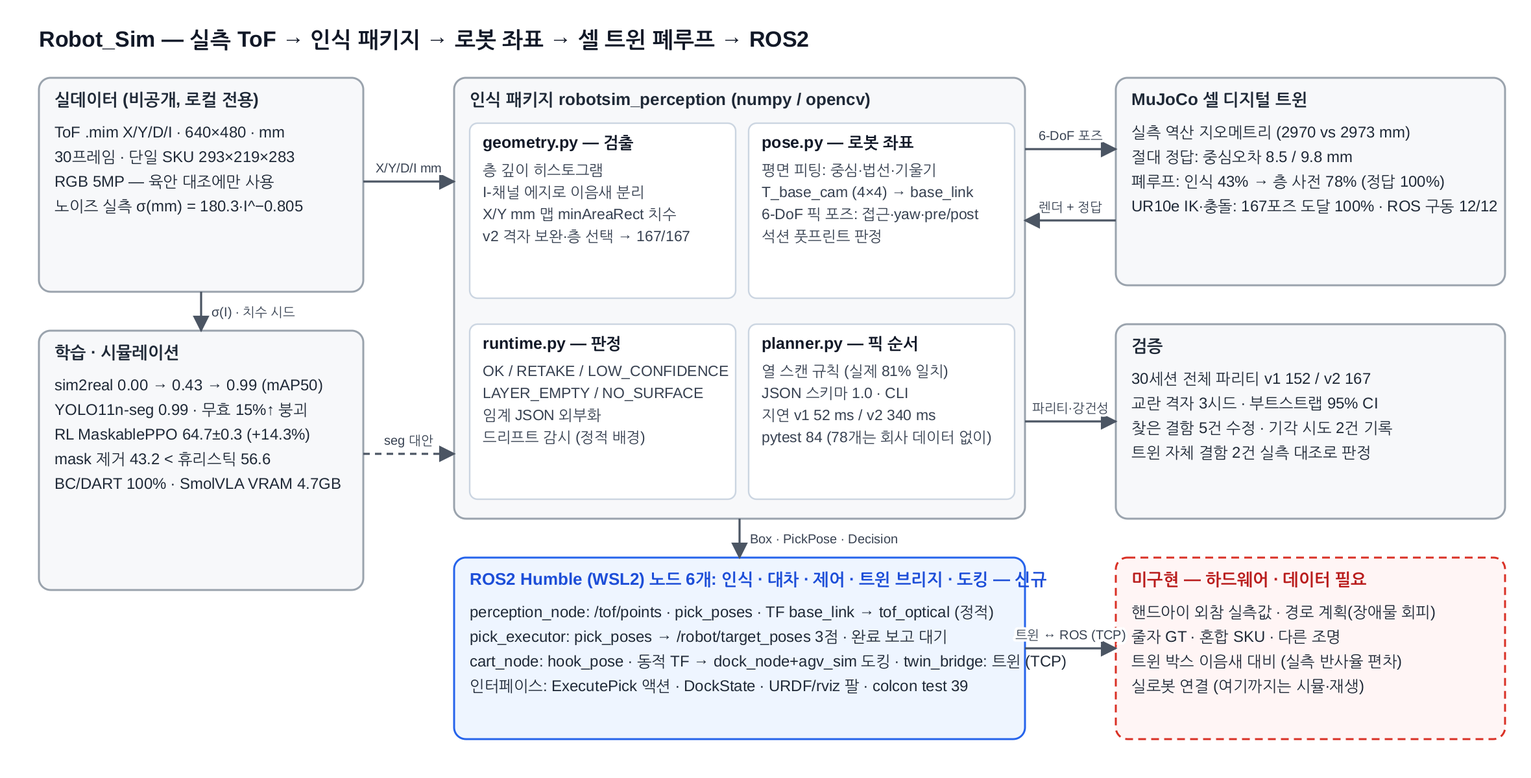
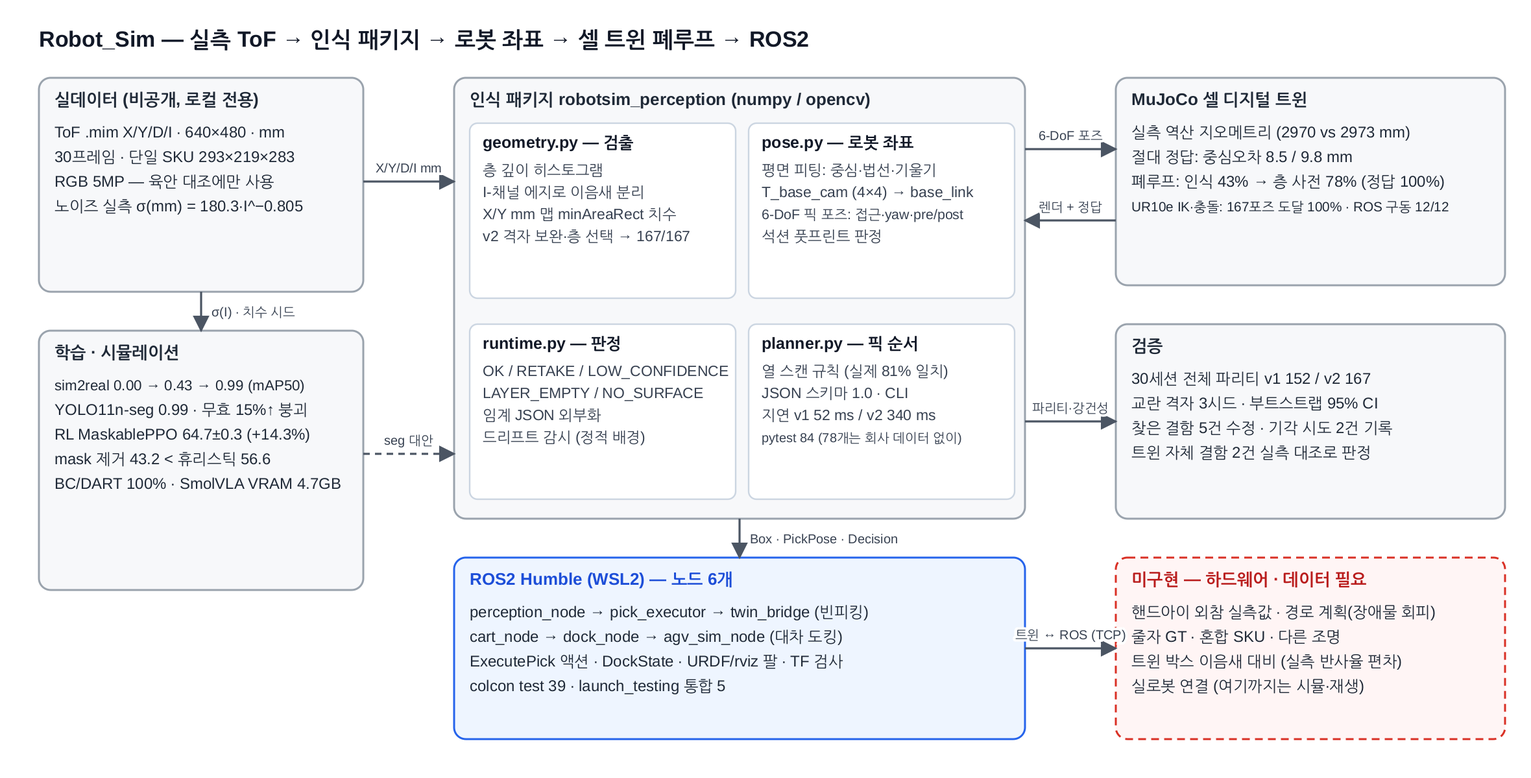
구조도 글자 넘침 수정 + 요약 PDF 를 워크플로 중심으로 다시 짬
- 구조도: 카드 폭을 넘는 줄이 박스 밖으로 새어 나왔다. 글자 폭을 추정해 자동으로 줄이는 _fit() 을 넣고(하한 8.5),
  ROS 카드 문구도 짧게 정리했다. 앞으로 문구를 늘려도 박스를 넘지 않는다
- 요약 PDF 1장: 다이어그램을 그대로 붙이던 것을 그만두고 워크플로 그림(데이터 → 인식 → 로봇 좌표 → 트윈 폐루프 → ROS2,
  아래에 대차 → 고리 → 도킹 갈래)을 직접 그린다. 핵심 수치는 타일 6개로, 설명 문장은 대폭 줄였다
- 요약 PDF 2장: 3열 → 2열 3행. 가로로 긴 차트가 폭에 눌려 축 글씨가 안 보이던 것을 고쳤고 캡션은 두 줄로 줄였다

diff --git a/tools/make_summary_pdf.py b/tools/make_summary_pdf.py
@@ -3,9 +3,9 @@
 
     python tools/make_summary_pdf.py  ->  docs/research/Robot_Sim_요약_2p.pdf (+ 페이지 PNG 미리보기)
 
-1장: 무엇을 만들었나(세 문장) + 다이어그램 + 검증 방법·한계 + 핵심 수치(숫자와 그 뜻)
-2장: 결과 그림 6장. 그림마다 "화면에 뭐가 보이는지"와 "숫자가 뜻하는 것"을 풀어 쓴다.
-글은 기호를 이어 붙이지 말고 문장으로 쓴다 (읽는 사람이 이 프로젝트를 모른다고 가정).
+1장: 한 줄 소개 + 워크플로 그림(데이터 → 인식 → 로봇 좌표 → 트윈 폐루프 → ROS2, 대차 갈래) + 핵심 수치 타일 6개 + 한계 4줄.
+2장: 결과 그림 6장. 캡션은 화면에 보이는 것부터 두 줄 안에.
+글은 되도록 줄이고 그림과 수치로 보여 준다. 남기는 문장은 기호 나열 대신 문장으로 쓴다.
 """
 from __future__ import annotations
 
@@ -18,6 +18,7 @@ import matplotlib.font_manager as fm
 import matplotlib.pyplot as plt
 from matplotlib.backends.backend_pdf import PdfPages
 from matplotlib.image import imread
+from matplotlib.patches import FancyArrowPatch, FancyBboxPatch
 
 ROOT = Path(__file__).resolve().parent.parent
 A = ROOT / "assets"
@@ -78,77 +79,127 @@ def image(fig, path, box, title=None, caption=None, caption_size=8.0):
         text(fig, x0, y_top - h_fit - 0.008, caption, caption_size, MUTED, wrap=w)
 
 
+# ----------------------------------------------------------------------------- 도형 (워크플로용)
+def box(fig, x, y, w, h, fill="#f7f8fa", edge="#9aa3ad", lw=1.0, dash=None):
+    """페이지 비율 좌표의 둥근 상자."""
+    p = FancyBboxPatch((x, y), w, h, boxstyle="round,pad=0,rounding_size=0.008",
+                       transform=fig.transFigure, facecolor=fill, edgecolor=edge, linewidth=lw,
+                       linestyle=(0, (4, 3)) if dash else "solid", zorder=1)
+    fig.add_artist(p)
+    return p
+
+
+def arrow(fig, x1, y1, x2, y2, color="#4b5563", label=None, lw=1.2):
+    a = FancyArrowPatch((x1, y1), (x2, y2), transform=fig.transFigure, arrowstyle="-|>",
+                        mutation_scale=11, color=color, linewidth=lw, zorder=2)
+    fig.add_artist(a)
+    if label:
+        fig.text((x1 + x2) / 2, max(y1, y2) + 0.012, _clean(label), fontsize=7.0, color=MUTED, ha="center")
+
+
+def stage(fig, x, y, w, h, title, lines, kpi=None, fill="#f7f8fa", edge="#9aa3ad", tcol=INK):
+    """워크플로 한 칸: 제목 + 짧은 줄 + 강조 수치."""
+    box(fig, x, y, w, h, fill, edge)
+    text(fig, x + 0.010, y + h - 0.016, title, 9.6, tcol, weight="bold")
+    for i, ln in enumerate(lines):
+        text(fig, x + 0.010, y + h - 0.045 - 0.026 * i, ln, 8.0, MUTED)
+    if kpi:
+        text(fig, x + 0.010, y + 0.012, kpi, 9.0, ACC, weight="bold", va="bottom")
+
+
+def tile(fig, x, y, w, h, value, label, note):
+    """핵심 수치 타일: 큰 숫자 + 무엇인지 + 뜻 한 줄."""
+    box(fig, x, y, w, h, "#ffffff", "#cbd5e1")
+    fig.text(x + w / 2, y + h - 0.030, _clean(value), fontsize=17, color=ACC, fontweight="bold",
+             ha="center", va="center")
+    fig.text(x + w / 2, y + h - 0.062, _clean(label), fontsize=8.4, color=INK, ha="center", va="center",
+             fontweight="bold")
+    fig.text(x + w / 2, y + 0.012, _clean(note), fontsize=7.4, color=MUTED, ha="center", va="bottom")
+
+
 def page1(pdf):
     fig = plt.figure(figsize=(PAGE_W, PAGE_H))
     text(fig, 0.04, 0.965, "Robot_Sim — 공장 ToF 데이터로 만든 로봇 인식 소프트웨어", 15, weight="bold")
-    text(fig, 0.04, 0.93,
-         "공장에서 찍은 ToF(거리) 카메라 데이터 두 종류로 인식 소프트웨어를 만들었다. 하나는 팔레트 위 박스를 찾아 로봇이 집을 위치와 자세를 "
-         "계산하는 것, 다른 하나는 대차의 견인 고리 위치를 대차 기준 좌표로 계산하는 것이다. 같은 셀을 시뮬레이터(MuJoCo)에 재현해 인식 결과만으로 "
-         "박스를 집어 옮기는 것까지 확인했고, ROS2 노드로 감싸 rviz에서 볼 수 있게 했다. 실제 로봇은 없고, 원본 데이터는 공개하지 않는다.",
-         9.0, MUTED, wrap=0.92)
+    text(fig, 0.04, 0.932,
+         "공장에서 찍은 거리(ToF) 카메라 데이터로 두 가지를 만들었다. 팔레트 위 박스를 찾아 로봇이 집을 위치·자세를 내는 것, "
+         "대차의 견인 고리 위치를 대차 기준 좌표로 내는 것. 같은 셀을 MuJoCo 로 재현해 인식 결과만으로 집어 옮기는 것까지 닫았고 "
+         "ROS2 노드로 감쌌다. 실제 로봇은 없고 원본 데이터는 비공개다.", 9.0, MUTED, wrap=0.92)
 
-    # ---- 다이어그램 (왼쪽) + 검증 방법 / 한계 (오른쪽)
-    image(fig, A / "architecture.png", (0.04, 0.845, 0.92, 0.385))
-    rx = 0.625
-    text(fig, rx, 0.845, "어떻게 검증했나", 11, weight="bold")
-    text(fig, rx, 0.815,
-         "1. 실측 30장면의 검출 결과를 RGB 사진과 사람이 대조해 박스 수를 확인했다.\n"
-         "2. 시뮬레이터에서는 박스의 진짜 위치를 알 수 있어, 검출 위치 오차를 mm 단위로 직접 쟀다.\n"
-         "3. 무효 픽셀, 깊이 노이즈, 큰 결손을 일부러 넣어 검출이 얼마나 버티는지 봤다.\n"
-         "4. 자동 테스트 84건(회사 데이터 없이 도는 것 78건)과 ROS2 테스트 39건(노드를 실제로 띄우는 통합 테스트 5건 포함)이 돈다.",
-         8.2, wrap=0.34)
-    text(fig, rx, 0.64, "한계", 11, weight="bold", color=RED)
-    text(fig, rx, 0.61,
-         "1. 박스 종류 하나, 카메라 한 대, 연속 30장면에서만 확인했다.\n"
-         "2. 실측 데이터의 정답은 검출기 출력을 사람이 눈으로 확인한 것이다. 줄자로 잰 정답은 없다.\n"
-         "3. 시뮬레이터의 팔은 역기구학·충돌 검사·관절 속도까지만 본다. 장애물을 돌아가는 경로 계획과 흡착 물리는 없다.\n"
-         "4. 박스가 1~3개만 남으면 층을 잘못 고르던 문제는 직전 프레임의 층을 사전으로 써서 대부분 해결했다. 남은 손실은 시뮬레이터 박스의 이음새 대비 부족.",
-         8.2, wrap=0.34)
-
-    # ---- 핵심 수치: 숫자와 그 뜻 (전체 폭)
-    rule(fig, 0.455)
-    text(fig, 0.04, 0.44, "핵심 수치와 그 뜻", 11, weight="bold")
-    cols = (0.04, 0.215, 0.43)
-    text(fig, cols[0], 0.41, "항목", 8.2, MUTED, weight="bold")
-    text(fig, cols[1], 0.41, "결과", 8.2, MUTED, weight="bold")
-    text(fig, cols[2], 0.41, "이 숫자가 뜻하는 것", 8.2, MUTED, weight="bold")
-    rows = [
-        ("박스 검출 (실측 30장면)",
-         "실제 박스 167개 중 167개 검출, 빈 장면 오검출 0",
-         "RGB 사진으로 사람이 센 박스 수와 같다. 첫 버전은 152개였는데, 붙어 있는 박스 둘이 하나로 합쳐지는 문제를 "
-         "격자 규칙으로 빈 칸을 채워서 고쳤다. 한 장면 처리에 0.34초."),
-        ("위치 정확도 (시뮬레이터 48장면)",
-         "박스 중심 오차 평균 8.5 mm, 노이즈 포함 9.8 mm",
-         "시뮬레이터 안에서는 박스의 진짜 위치를 아니까 직접 비교한 값이다. 실측 데이터에는 이런 정답이 없다. "
-         "박스 크기는 실제보다 8~15 mm 작게 잰다."),
-        ("인식 결과로 집어 옮기기 (시뮬레이터 60회)",
-         "정답 100% vs 인식 43% → 층 사전 78% (mocap), 트랙 팔 65 → 75%",
-         "손실 대부분은 박스가 1~3개 남았을 때 층을 잘못 골라 포기한 것. 직전 프레임의 층 깊이를 다음 후보로 쓰면 그 손실이 "
-         "거의 사라진다(인식 비용 57 → 22 %p). 팔에 정답을 주면 60개 전부, ROS2 구동은 12개 전부 놓았다."),
-        ("팔 도달 범위 (UR10e, 실측 픽 포즈 167개)",
-         "고정 받침대 87%, 리니어 트랙을 달면 100%, 무충돌 99~100%",
-         "1.3 m 팔 하나로는 두 팔레트(중심 거리 1.19 m)의 반대편 모서리에 못 닿는다. 트랙 0.6 m 를 더하면 전부 닿는다. "
-         "관절 속도 한계로 계산한 픽 1회 순수 이동은 3.1초(흡착·해제 대기 0.6초 별도)."),
-        ("대차 고리 위치 (실측 4회 촬영)",
-         "고리 반복 3.85 mm (면내 3.1 mm) · 도킹(합성 대차) 30회 중 27회 결합",
-         "촬영마다 카메라 높이가 6 cm, 대차 위치가 5 cm까지 달라도 데크 평면·테두리·레일로 좌표를 잡으면 고리는 같은 자리다. "
-         "이 좌표로 합성 대차에서 AGV(시뮬)를 결합 위치까지 몰았다: 평균 9.1초, 측방 3.0 mm(정답 기준 26회)."),
-        ("팔레타이징 강화학습 (3시드)",
-         "학습 정책 64.7개 vs 규칙 56.6개 (14% 더 쌓음)",
-         "같은 팔레트에 박스를 몇 개 쌓느냐. 놓을 수 없는 자리를 미리 막는 마스크를 빼면 43.2개로 규칙보다 못하다. "
-         "즉 성능의 핵심은 마스크다."),
-        ("ROS2 노드 6개 (Humble, WSL2)",
-         "빈피킹·대차·제어·트윈 브리지·도킹·AGV 시뮬 노드. 액션·커스텀 메시지. 테스트 39건",
-         "인식 결과를 로봇 제어기가 받는 표준 형식(포즈, 좌표 변환 TF, 마커)으로 내보낸다. 제어 노드는 픽 포즈를 세 점 궤적으로 "
-         "바꿔 보내고 완료 보고를 기다린 뒤 재촬영을 요청한다. 브리지 노드가 그 명령을 시뮬레이터의 팔에 실행시켜 12박스를 전부 놓았다(실패 0)."),
+    # ---------------------------------------------------------------- 워크플로
+    text(fig, 0.04, 0.868, "워크플로 — 데이터에서 로봇 명령까지", 11.5, weight="bold")
+    y, h = 0.66, 0.185
+    xs = [0.040, 0.234, 0.428, 0.622, 0.816]
+    w = 0.164
+    stages = [
+        ("① 실측 ToF", ["30장면 · 단일 SKU", "X/Y/거리/강도 640×480", "노이즈 실측으로 모델링"], "비공개 · 로컬 전용"),
+        ("② 인식 (numpy/opencv)", ["층 깊이 + 강도 에지", "격자 보완으로 빈 칸 채움", "판정: OK/재촬영/저신뢰"], "167 / 167 박스"),
+        ("③ 로봇 좌표", ["평면 피팅 → 중심·법선", "카메라→로봇 4×4 변환", "6-DoF 픽 포즈(요 포함)"], "중심 오차 8.5 mm"),
+        ("④ 셀 트윈 폐루프", ["MuJoCo 로 셀 재현", "인식 결과만으로 집기", "UR10e IK·충돌·속도"], "인식 구동 78%"),
+        ("⑤ ROS2 (Humble)", ["노드 6개 · rviz2", "픽 실행 액션 · TF", "launch_testing 통합 5"], "12박스 12/12"),
     ]
-    y = 0.385
-    for k, v, why in rows:                    # 7행: 행 간격 0.05 로 바닥글 위에서 끝나게 (넘치면 여기부터 줄인다)
-        text(fig, cols[0], y, k, 8.0, INK, weight="bold", wrap=0.165)
-        text(fig, cols[1], y, v, 8.0, INK, wrap=0.205)
-        text(fig, cols[2], y, why, 8.0, MUTED, wrap=0.53)
-        y -= 0.05
-    text(fig, 0.04, 0.018, "github.com/CVKim/RobotSim  ·  수치 원본은 results/*.json  ·  원본 데이터는 비공개(집계 수치와 depth 시각화만 공개)",
+    for i, (x, (t, lines, kpi)) in enumerate(zip(xs, stages)):
+        last = i == len(stages) - 1
+        stage(fig, x, y, w, h, t, lines, kpi,
+              fill="#eef5ff" if last else "#f7f8fa", edge="#2563eb" if last else "#9aa3ad",
+              tcol=ACC if last else INK)
+        if i:
+            arrow(fig, xs[i - 1] + w, y + h / 2, x, y + h / 2)
+
+    # 대차 갈래 (아래 줄)
+    y2, h2 = 0.505, 0.115
+    stages2 = [
+        ("대차 장면 (실측 4회 · 합성)", ["카메라가 데크를 40° 비스듬히 봄"], None),
+        ("고리 좌표", ["데크 평면·림·레일에서 대차 좌표계 추정"], "반복 RMS 3.85 mm"),
+        ("AGV 도킹 (시뮬)", ["고리 포즈로 결합 위치까지 주행 · stop-and-go"], "30회 중 27회 결합"),
+    ]
+    xs2 = [0.040, 0.330, 0.620]
+    w2 = 0.258
+    for i, (x, (t, lines, kpi)) in enumerate(zip(xs2, stages2)):
+        stage(fig, x, y2, w2, h2, t, lines, kpi)
+        if i:
+            arrow(fig, xs2[i - 1] + w2, y2 + h2 / 2, x, y2 + h2 / 2)
+    # 좌표 변환이 맞는지 스스로 검사한 값 (같은 고리를 두 경로로 구해 비교)
+    box(fig, 0.878, y2, 0.082, h2, "#ffffff", "#cbd5e1")
+    fig.text(0.919, y2 + h2 - 0.032, "0.003 mm", fontsize=11.5, color=ACC, fontweight="bold", ha="center", va="center")
+    fig.text(0.919, y2 + h2 - 0.062, _clean("좌표 변환 검사"), fontsize=7.8, color=INK, ha="center", va="center", fontweight="bold")
+    fig.text(0.919, y2 + 0.014, _clean("TF 값 vs 인식 값"), fontsize=7.0, color=MUTED, ha="center", va="bottom")
+
+    # ---------------------------------------------------------------- 핵심 수치 타일
+    text(fig, 0.04, 0.455, "핵심 수치", 11.5, weight="bold")
+    ty, th = 0.285, 0.135
+    tw, gap = 0.1455, 0.0164
+    tiles = [
+        ("167 / 167", "박스 검출 (실측 30장면)", "RGB 사진으로 센 수와 같다"),
+        ("8.5 mm", "픽 위치 오차 (트윈)", "시뮬레이터의 진짜 위치와 비교"),
+        ("43 → 78 %", "인식만으로 집어 옮기기", "직전 층을 사전으로 쓴 뒤"),
+        ("87 → 100 %", "UR10e 도달 (167포즈)", "리니어 트랙 0.6 m 를 더하면"),
+        ("27 / 30", "AGV 도킹 결합 (시뮬)", "정답 기준 26 · 평균 9.1초"),
+        ("84 + 40", "자동 테스트 (pytest+ROS)", "회사 데이터 없이 78건이 돈다"),
+    ]
+    for i, (v, lab, note) in enumerate(tiles):
+        tile(fig, 0.04 + i * (tw + gap), ty, tw, th, v, lab, note)
+
+    # ---------------------------------------------------------------- 한계
+    text(fig, 0.04, 0.245, "한계 (읽고 수치를 쓸 것)", 11.5, weight="bold")
+    lim = [
+        "박스 종류 하나, 카메라 한 대, 연속 30장면에서만 확인했다.",
+        "실측 정답은 검출 결과를 사람이 눈으로 확인한 것이다. 줄자로 잰 정답은 없다.",
+        "팔·AGV 는 기구학 시뮬이다. 장애물 회피 경로 계획과 흡착·바퀴 물리는 없다.",
+        "실제 로봇과 센서 드라이버는 연결하지 않았다. 카메라·로봇 자리를 트윈이 대신한다.",
+        "학습 모델은 무효 픽셀이 15%를 넘으면 무너진다. 기본 경로는 학습 없는 기하 검출이다.",
+    ]
+    for i, ln in enumerate(lim):
+        text(fig, 0.045, 0.212 - 0.031 * i, "· " + ln, 8.6, MUTED)
+
+    # 결과 화면 미리보기 두 장 (자세한 그림은 2장)
+    text(fig, 0.545, 0.245, "결과 화면 (자세한 그림은 2장)", 11.5, weight="bold")
+    image(fig, A / "detector_v2_recovered.png", (0.545, 0.212, 0.185, 0.150),
+          caption="ToF 거리 이미지 위의 검출 결과. 왼쪽이 첫 버전, 오른쪽이 개선 버전.", caption_size=7.2)
+    image(fig, A / "ros2_twin_cycle_rviz.png", (0.755, 0.212, 0.205, 0.150),
+          caption="ROS2 노드가 트윈의 UR10e 를 구동하는 rviz 화면.", caption_size=7.2)
+
+    text(fig, 0.04, 0.030,
+         "github.com/CVKim/RobotSim  ·  수치 원본은 results/*.json  ·  원본 데이터는 비공개(집계 수치와 depth 시각화만 공개)",
          7.8, MUTED)
     pdf.savefig(fig)
     plt.close(fig)
@@ -157,39 +208,35 @@ def page1(pdf):
 def page2(pdf):
     fig = plt.figure(figsize=(PAGE_W, PAGE_H))
     text(fig, 0.04, 0.965, "결과 그림 — 화면에 무엇이 보이는지", 15, weight="bold")
-    W, H = 0.285, 0.30
-    X = (0.04, 0.355, 0.67)
-    # 1번 그림은 거의 정사각형이라 같은 높이를 주면 캡션이 아래 줄 제목을 덮는다 -> 조금 낮게
-    image(fig, A / "detector_v2_recovered.png", (X[0], 0.905, W, 0.255),
+    # 2열 3행 — 가로로 긴 차트가 커야 읽힌다 (3열이면 폭에 눌려 축 글씨가 안 보였다)
+    W = 0.435
+    X = (0.045, 0.525)
+    R = (0.900, 0.610, 0.320)
+    H = 0.195
+    image(fig, A / "detector_v2_recovered.png", (X[0], R[0], W, H),
           "1. 박스 검출, 첫 버전과 개선 버전",
-          "ToF 거리 이미지 위에 찾은 박스 윗면을 표시했다. 왼쪽 열이 첫 버전, 오른쪽 열이 개선 버전. 위 줄: 첫 버전은 붙어 있는 박스 둘을 "
-          "하나로 합쳤고, 개선 버전은 격자 규칙으로 빈 칸을 채워 12개를 다 찾았다. 아래 줄: 박스가 2개만 남으면 첫 버전은 바닥을 층으로 "
-          "착각했고, 개선 버전은 층을 다시 골라 2개를 찾았다. 30장면 전체로는 152개에서 167개(전부)가 됐다.")
-    image(fig, A / "twin_detect_accuracy.png", (X[1], 0.905, W, H),
+          "ToF 거리 이미지 위에 찾은 박스 윗면. 왼쪽 열이 첫 버전, 오른쪽 열이 개선 버전이다. 위 줄은 붙은 박스를 합친 경우, "
+          "아래 줄은 남은 2개에서 층을 잘못 고른 경우다. 30장면 전체로는 152 → 167개(전부).")
+    image(fig, A / "twin_detect_accuracy.png", (X[1], R[0], W, H),
           "2. 시뮬레이터에서 잰 위치 오차",
-          "시뮬레이터 안에서는 박스의 진짜 위치를 아니까 검출 결과와 직접 비교할 수 있다. 왼쪽: 박스 중심 오차 분포(평균 8.5 mm, "
-          "노이즈를 넣으면 9.8 mm). 가운데: 박스 크기는 실제보다 8~15 mm 작게 잰다. 오른쪽: 찾은 박스 수는 정답과 같다. "
-          "이 비교에서 검출기 결함 2건을 찾아 고쳤다.")
-    image(fig, A / "twin_closed_loop.png", (X[2], 0.905, W, H),
+          "시뮬레이터는 진짜 위치를 아니까 직접 비교할 수 있다. 왼쪽이 중심 오차 분포(평균 8.5 mm), 가운데가 크기 편차"
+          "(8~15 mm 작게 잰다), 오른쪽이 개수 리콜·정밀도다. 이 비교에서 검출기 결함 2건을 고쳤다.")
+    image(fig, A / "twin_closed_loop.png", (X[0], R[1], W, H),
           "3. 인식 결과만으로 집어 옮기기 (실행기 6종)",
-          "시뮬레이터 셀에서 박스를 집어 옆 팔레트로 옮긴다. 왼쪽: 정답 위치를 줄 때(파랑)와 인식 결과로 할 때(주황)의 성공률. "
-          "오른쪽 두 막대는 직전 프레임의 층 깊이를 사전으로 쓴 결과다: 인식 구동 성공률이 43 → 78%(mocap), 65 → 75%(트랙 팔)로 오르고, "
-          "가운데 그림에서 '흡착 실패'가 6 → 2회, '소스 미검출'이 6 → 2회로 준다. 팔에 정답 위치를 주면 트랙 100%, 고정 받침대 88%. 오른쪽: 사이클 시간.")
-    H = 0.27
-    image(fig, A / "ros2_twin_cycle_rviz.png", (X[0], 0.45, W, H),
+          "왼쪽이 성공률(파랑 = 정답 위치, 주황 = 인식 결과), 가운데가 실패 사유, 오른쪽이 사이클 시간이다. "
+          "오른쪽 두 쌍은 직전 층을 사전으로 쓴 결과로 43 → 78%(mocap), 65 → 75%(트랙 팔).")
+    image(fig, A / "ros2_twin_cycle_rviz.png", (X[1], R[1], W, H),
           "4. ROS2 노드가 시뮬레이터의 팔을 구동하는 화면",
-          "세 번째 픽이 실행되는 중. 오른쪽 파란 팔이 시뮬레이터의 UR10e 로, 시뮬레이터가 보낸 관절각을 받아 rviz 가 그린 것이다. "
-          "회색 원기둥은 팔 받침대, 초록·주황 판은 인식 노드가 본 남은 박스, 노란 세 점이 이번 명령(pre-pick, pick, lift), "
-          "하늘색 선이 팔 끝이 지나온 경로다. 팔이 명령을 끝내면 완료를 보고하고, 인식 노드가 다음 프레임을 찍는다. 12박스를 전부 놓았다.")
-    image(fig, A / "ros2_rviz_cart_synthetic.png", (X[1], 0.45, W, H),
+          "파란 팔이 시뮬레이터의 UR10e 다(관절각을 받아 rviz 가 그린다). 초록·주황 판이 남은 박스, 하늘색 선이 팔 끝 경로, "
+          "노란 세 점이 이번 명령이다. 팔이 완료를 보고하면 인식 노드가 다음 프레임을 찍는다. 12박스를 전부 놓았다.")
+    image(fig, A / "ros2_rviz_cart_synthetic.png", (X[0], R[2], W, H),
           "5. ROS2 대차 노드를 rviz로 본 화면",
-          "대차 견인 고리용 노드. 카메라가 대차를 비스듬히 보므로 데크 평면, 앞 테두리(림), 레일에서 대차 기준 좌표계를 매 프레임 새로 잡는다. "
-          "파란 판이 데크, 자홍 선이 림, 노란 선이 레일, 초록 기둥이 고리, 위쪽의 축이 카메라 위치다. 카메라 높이를 바꿔도 고리는 "
-          "대차 좌표에서 같은 자리(u 36 mm)에 잡힌다.")
-    image(fig, A / "hook_v2_overlay.png", (X[2], 0.45, W, H),
+          "파란 판이 데크, 자홍 선이 앞 테두리, 노란 선이 레일, 초록 기둥이 고리, 위쪽 축이 카메라다. 이 셋으로 대차 좌표계를 "
+          "매 프레임 새로 잡는다. 카메라 높이가 바뀌어도 고리는 같은 자리(u 36 mm)에 잡힌다.")
+    image(fig, A / "hook_v2_overlay.png", (X[1], R[2], W, H),
           "6. 실제 대차에서 고리를 찾은 화면",
-          "실제 대차의 ToF 반사 강도 이미지. 데크 위 높이 12~150 mm 범위에서 밝게 반사되는 부분이 고리 벽(빨강)이고, 레일(주황)과 고리 윗면은 "
-          "어두워서 자연히 분리된다. 노란 부분이 고리 꼭대기, 십자가 추정한 고리 위치다. 네 번 촬영에서 이 위치의 흩어짐(RMS)은 3.85 mm 다.")
+          "실제 대차의 ToF 반사 강도 이미지. 빨강이 고리 벽, 주황이 레일, 노랑이 고리 꼭대기, 십자가 추정한 고리 위치다. "
+          "네 번 촬영에서 이 위치의 흩어짐(RMS)은 3.85 mm.")
     text(fig, 0.04, 0.03, "자세한 내용: docs/30_결과_상세.md (수치), docs/41_셀_트윈.md (시뮬레이터), docs/42_ROS2_핸즈온.md (ROS2)", 7.8, MUTED)
     pdf.savefig(fig)
     plt.close(fig)

diff --git a/tools/make_architecture_diagram.py b/tools/make_architecture_diagram.py
@@ -62,11 +62,11 @@ GROUPS = [
             "pytest 84 (78개는 회사 데이터 없이)",
         ]),
     ]),
-    dict(id="ros", title="ROS2 Humble (WSL2)  노드 6개: 인식 · 대차 · 제어 · 트윈 브리지 · 도킹 — 신규", x=350, y=430, w=440, h=140, style="new", lines=[
-        "perception_node: /tof/points · pick_poses · TF base_link → tof_optical (정적)",
-        "pick_executor: pick_poses → /robot/target_poses 3점 · 완료 보고 대기",
-        "cart_node: hook_pose · 동적 TF → dock_node+agv_sim 도킹  ·  twin_bridge: 트윈 (TCP)",
-        "인터페이스: ExecutePick 액션 · DockState · URDF/rviz 팔 · colcon test 39",
+    dict(id="ros", title="ROS2 Humble (WSL2) — 노드 6개", x=350, y=430, w=440, h=140, style="new", lines=[
+        "perception_node → pick_executor → twin_bridge (빈피킹)",
+        "cart_node → dock_node → agv_sim_node (대차 도킹)",
+        "ExecutePick 액션 · DockState · URDF/rviz 팔 · TF 검사",
+        "colcon test 39 · launch_testing 통합 5",
     ]),
     dict(id="twin", title="MuJoCo 셀 디지털 트윈", x=860, y=60, w=300, h=160, style="normal", lines=[
         "실측 역산 지오메트리 (2970 vs 2973 mm)",
@@ -112,6 +112,17 @@ def _esc(s: str) -> str:
     return s.replace("&", "&amp;").replace("<", "&lt;").replace(">", "&gt;")
 
 
+def _text_w(s: str, size: float) -> float:
+    """글자 폭 추정 — 한글·기호는 전각(1.0), 라틴은 0.56 로 본다. 넘치는 글자를 잡기 위한 보수적 값."""
+    return size * sum(1.0 if ord(ch) > 0x2E80 else 0.56 for ch in s)
+
+
+def _fit(s: str, max_w: float, size: float, floor: float = 8.5) -> float:
+    """max_w 안에 들어가도록 글자 크기를 줄인다(하한 floor). 박스 밖으로 새는 줄을 없애기 위한 장치."""
+    w = _text_w(s, size)
+    return size if w <= max_w else max(floor, size * max_w / w)
+
+
 def svg() -> str:
     o = [f'<svg xmlns="http://www.w3.org/2000/svg" width="{W}" height="{H}" viewBox="0 0 {W} {H}" '
          f'font-family=\'{FONT}\'>',
@@ -124,19 +135,23 @@ def svg() -> str:
         d = f' stroke-dasharray="{dash}"' if dash else ""
         o.append(f'<rect x="{x}" y="{y}" width="{w}" height="{h}" rx="6" fill="{fill}" stroke="{stroke}" '
                  f'stroke-width="1.2"{d}/>')
-        o.append(f'<text x="{x + 10}" y="{y + 19}" font-size="12.5" font-weight="700" fill="{tcol}">{_esc(title)}</text>')
+        ts = _fit(title, w - 20, 12.5)
+        o.append(f'<text x="{x + 10}" y="{y + 19}" font-size="{ts:.1f}" font-weight="700" fill="{tcol}">{_esc(title)}</text>')
         for i, ln in enumerate(lines):
-            o.append(f'<text x="{x + 10}" y="{y + 40 + 17 * i}" font-size="11.5" fill="#374151">{_esc(ln)}</text>')
+            fs = _fit(ln, w - 20, 11.5)
+            o.append(f'<text x="{x + 10}" y="{y + 40 + 17 * i}" font-size="{fs:.1f}" fill="#374151">{_esc(ln)}</text>')
 
     for g in GROUPS:
         st = STYLE[g["style"]]
         d = f' stroke-dasharray="{st["dash"]}"' if st["dash"] else ""
         o.append(f'<rect x="{g["x"]}" y="{g["y"]}" width="{g["w"]}" height="{g["h"]}" rx="9" '
                  f'fill="{st["fill"]}" stroke="{st["stroke"]}" stroke-width="1.5"{d}/>')
-        o.append(f'<text x="{g["x"] + 12}" y="{g["y"] + 21}" font-size="13" font-weight="700" '
+        gs = _fit(g["title"], g["w"] - 24, 13)
+        o.append(f'<text x="{g["x"] + 12}" y="{g["y"] + 21}" font-size="{gs:.1f}" font-weight="700" '
                  f'fill="{st["title"]}">{_esc(g["title"])}</text>')
         for i, ln in enumerate(g.get("lines", [])):
-            o.append(f'<text x="{g["x"] + 12}" y="{g["y"] + 46 + 19 * i}" font-size="12" fill="#1f2937">{_esc(ln)}</text>')
+            fs = _fit(ln, g["w"] - 24, 12)
+            o.append(f'<text x="{g["x"] + 12}" y="{g["y"] + 46 + 19 * i}" font-size="{fs:.1f}" fill="#1f2937">{_esc(ln)}</text>')
         for c in g.get("cards", []):
             card(c["x"], c["y"], c["w"], c["h"], c["title"], c["lines"])
 
